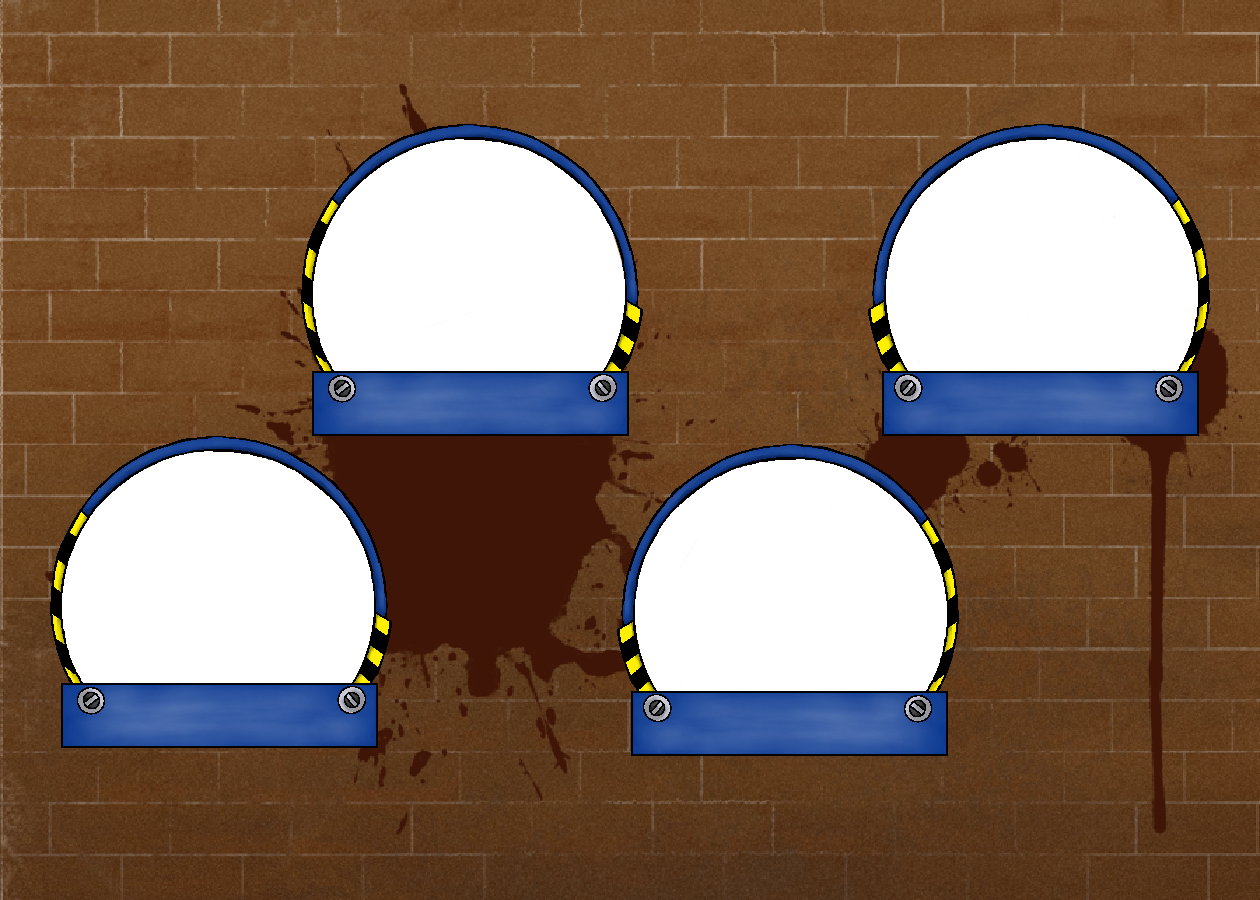
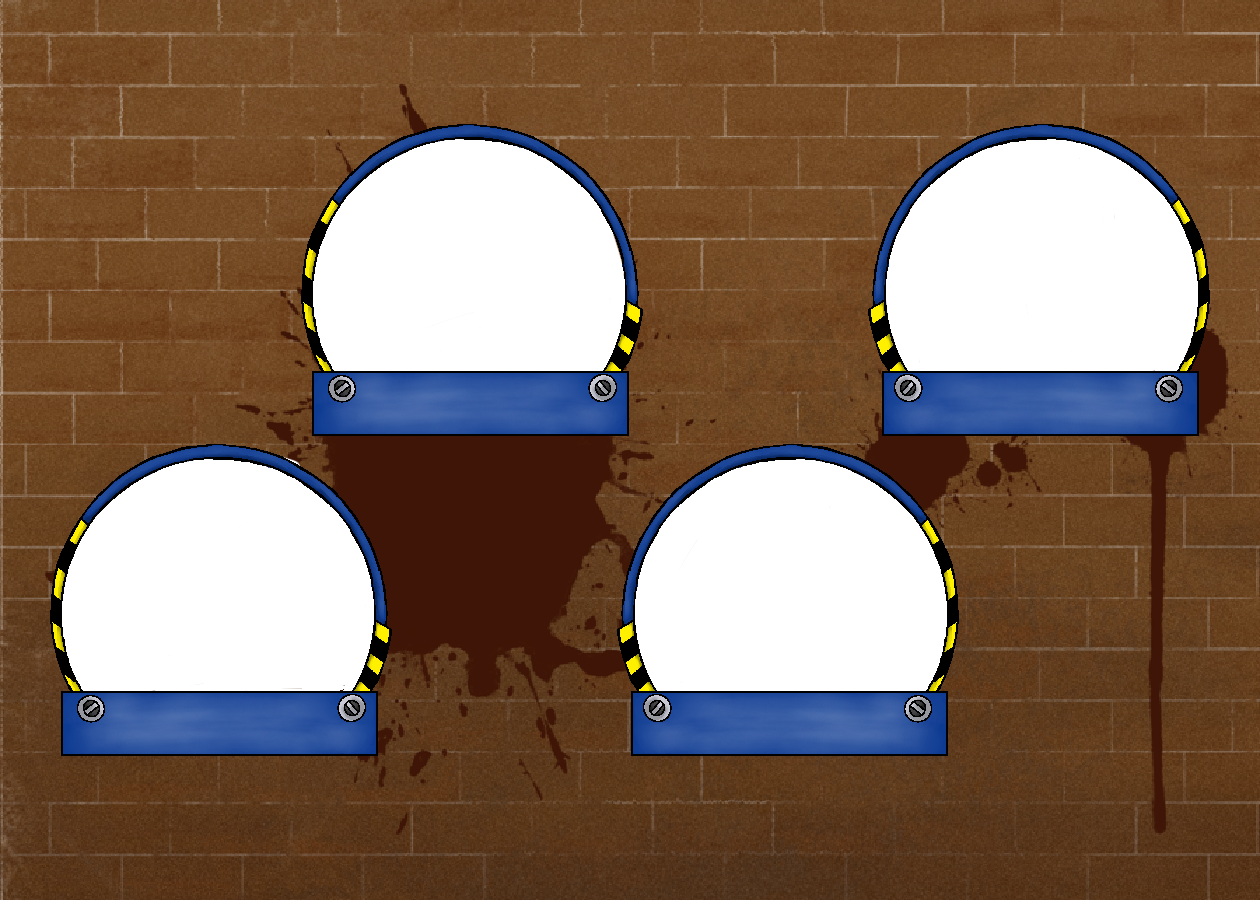
feat(settlement): show points and team number(unfinished), and adjust image position

Changed region(s): [[0.031, 0.6844, 0.3095, 0.84], [0.0619, 0.4667, 0.3095, 0.6533], [0.031, 0.5911, 0.0619, 0.6533]]

diff --git a/view/object/settlement.py b/view/object/settlement.py
@@ -23,7 +23,9 @@ class SettlementView(ObjectBase):
         self.image_initialized = True
         super().__init__(canvas, [const.PRIORITY_SETTLEMENT])
         self.__settlement = settlement
+        self.__scope_destination = const.SETTLEMENT_TEAM_POSITION
         self.__font = pg.font.Font(const.REGULAR_FONT, int(12*ScreenInfo.resize_ratio))
+        self.__team_show_points: list[bool] = [False, False, False, False]
 
     @classmethod
     def init_convert(cls):
@@ -46,13 +48,28 @@ class SettlementView(ObjectBase):
 
     def draw(self):
         model = get_model()
-        point: list = [(284, 100), (33, 420), (851, 100), (600, 420)]
+        team_icon_position: list = [(284, 100), (33, 420), (851, 100), (600, 420)]
         for team in model.teams:
             img = self.party_images[team.party]
-            self.canvas.blit(img, transform_coordinate(point[team.team_id], self.ratio))
+            self.canvas.blit(img, transform_coordinate(
+                team_icon_position[team.team_id], self.ratio))
 
         img = self.background_image
         self.canvas.blit(img, (0, 0))
+
+        for team in model.teams:
+            if team.team_id < 2:
+                draw_text(self.canvas, (team_icon_position[team.team_id][0] + 362 / 2) * self.ratio,
+                          (team_icon_position[team.team_id][1]) * self.ratio, "第  小隊", 'white', self.__font)
+            else:
+                draw_text(self.canvas, (team_icon_position[team.team_id][0] + 380 / 2) * self.ratio,
+                          (team_icon_position[team.team_id][1]) * self.ratio, "第  小隊", 'white', self.__font)
+
+            if self.__settlement.scope_position == self.__scope_destination[team.team_id] and self.__team_show_points[team.team_id] == False:
+                self.__team_show_points[team.team_id] = True
+            if self.__team_show_points[team.team_id] == True:
+                draw_text(self.canvas, (team_icon_position[team.team_id][0] + 370 / 2) * self.ratio, (
+                    team_icon_position[team.team_id][1] + 305) * self.ratio, str(team.points), 'white', self.__font)
 
         img = self.scope_image
         self.canvas.blit(img, transform_coordinate(self.__settlement.scope_position, self.ratio))

diff --git a/const/visual/settlement.py b/const/visual/settlement.py
@@ -19,7 +19,7 @@ SETTLEMENT_IMAGE: dict[PartyType, str] = {
     PartyType.MOURI: os.path.join(IMAGE_DIR, SETTLEMENT_DIR, 'mouri.png')
 }
 SETTLEMENT_TEAM_POSITION: list[pg.Vector2] = [pg.Vector2(
-    284, 100), pg.Vector2(33, 420), pg.Vector2(851, 100), pg.Vector2(600, 420)]
+    287, 110), pg.Vector2(36, 430), pg.Vector2(859, 110), pg.Vector2(610, 430)]  # only for scope
 SETTLEMENT_INITIAL_POSITION = pg.Vector2(-100, -100)
 SCOPE_SPEED = 3
 INVERVAL_WAITING = 7
